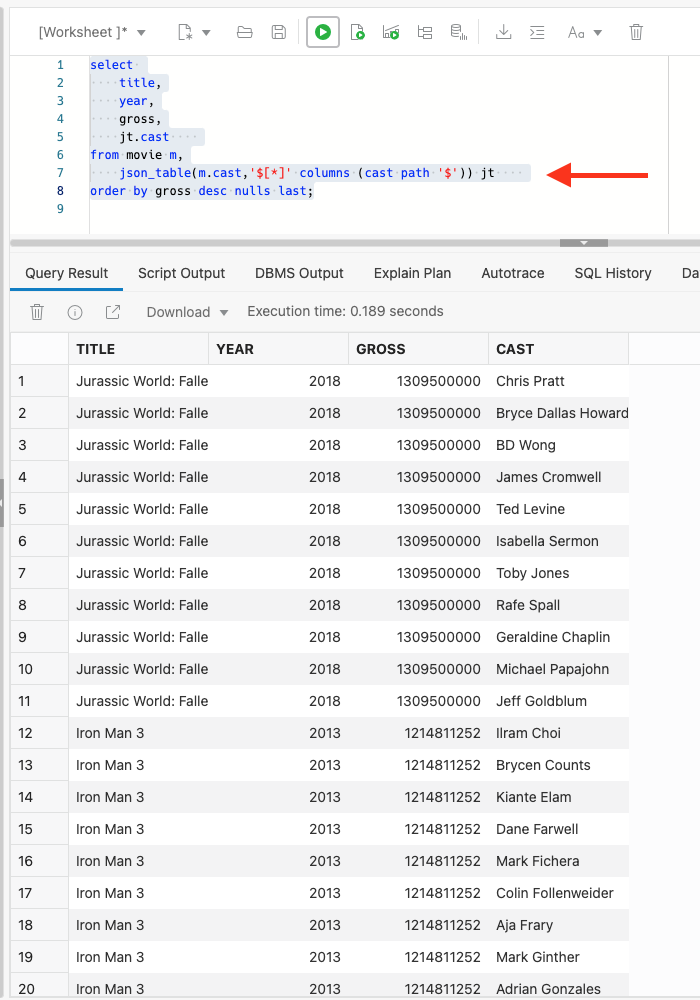
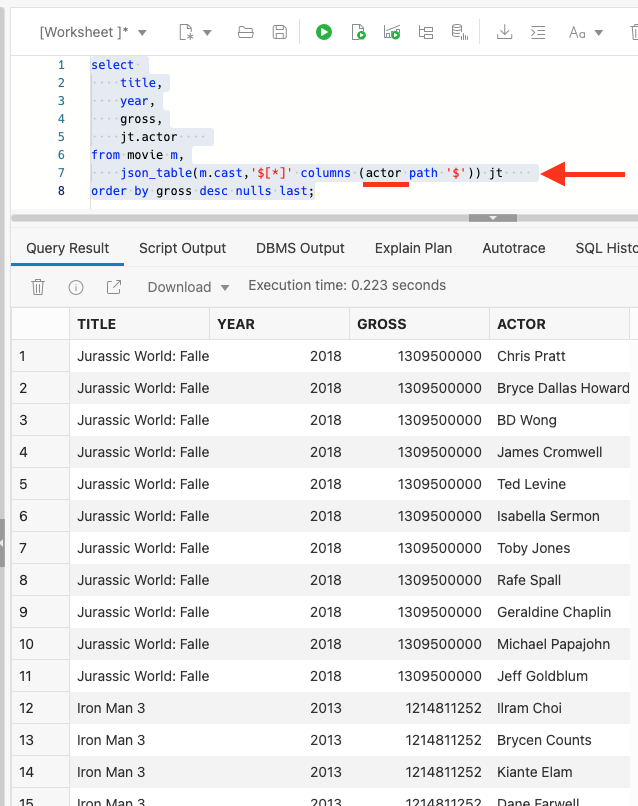
fixed missing block task

diff --git a/shared/adb-load-analyze-workshop/workshops/freetier/index.html b/shared/adb-load-analyze-workshop/workshops/freetier/index.html
@@ -1,0 +1,62 @@
+<!DOCTYPE html>
+<html lang="en">
+
+<head>
+    <meta charset="utf-8">
+    <meta http-equiv="X-UA-Compatible" content="IE=edge">
+    <meta name="viewport" content="width=device-width, initial-scale=1">
+    <meta name="description" content="Oracle LiveLabs gives you access to Oracle's products to run a wide variety of labs and workshops; allowing you to experience our best technology, live!">
+    <title>Oracle LiveLabs</title>
+
+    <script src="https://oracle.github.io/learning-library/common/redwood-hol/js/jquery-1.11.0.min.js"></script>
+    <script src="https://oracle.github.io/learning-library/common/redwood-hol/js/jquery-ui-1.10.4.custom.js"></script>
+    <script src="/building-blocks/js/main.min.js"></script>
+
+    <link rel="stylesheet" href="https://oracle.github.io/learning-library/common/redwood-hol/css/style.min.css" />
+    <link rel="shortcut icon" href="https://oracle.github.io/learning-library/common/redwood-hol/img/favicon.ico" />
+</head>
+
+<body>
+    <header class="hol-Header" role="banner">
+        <div class="hol-Header-wrap">
+            <div class="hol-Header-logo"><span>Oracle LiveLabs</span></div>
+            <a href="https://bit.ly/golivelabs" target="_blank" id="livelabs" title="Oracle LiveLabs"></a>
+            <div class="hol-Header-actions">
+                <button id="openNav" class="hol-Header-button hol-Header-button--menu rightNav" aria-label="Open Menu"
+                    title="Open Menu">
+                    <span class="hol-Header-toggleIcon"></span>
+                </button>
+            </div>
+        </div>
+    </header>
+
+    <div id="container">
+        <div id="leftNav">
+            <div id="toc"></div>
+        </div>
+        <div id="contentBox">
+            <main class="hol-Content" id="module-content"></main>
+        </div>
+    </div>
+
+      <footer class="hol-Footer">
+        <a class="hol-Footer-topLink" href="#top">Return to Top</a>
+        <div id="footer-banner"><div class="footer-row">
+          <div class="footer-content"><ul class="footer-links">
+              <li><a href="https://docs.oracle.com/pls/topic/lookup?ctx=en/legal&id=cpyr" target="_blank" aria-label="Open a new window to Oracle legal notices" data-lbl="copyright">© Oracle</a></li>
+              <li><a href="https://www.oracle.com/corporate/index.html" target="_blank" aria-label="Open a new window to learn more about oracle" data-lbl="about-oracle">About Oracle</a></li>
+              <li><a href="https://www.oracle.com/corporate/contact/" target="_blank" aria-label="Open a new window to contact oracle" data-lbl="contact-us">Contact Us</a></li>
+              <li class="footer-links-break"></li>
+              <li><a href="https://docs.oracle.com/en/browseall.html" target="_blank" aria-label="Open a new window to products a-z" data-lbl="products-a-z">Products A-Z</a></li>
+              <li><a href="https://www.oracle.com/legal/privacy/" target="_blank" aria-label="Open a new window to read more about Oracle terms of use and privacy" data-lbl="terms-of-use-and-privacy">Terms of Use & Privacy</a></li>
+              <li><a href="https://www.oracle.com/legal/privacy/privacy-policy.html#11" target="_blank" aria-label="Open a new window to read more about managing Oracle cookie preferences" data-lbl="cookie-preferences">Cookie Preferences</a></li>
+              <li><a href="https://www.oracle.com/legal/privacy/marketing-cloud-data-cloud-privacy-policy.html#adchoices" target="_blank" aria-label="Open a new window to ad choices" data-lbl="ad-choices">Ad Choices</a></li>
+              <li class="footer-links-break"></li><li class="last"><a href="https://docs.oracle.com/pls/topic/lookup?ctx=en/legal&id=cpyr" target="_blank" aria-label="Open a new window to Oracle legal notices" data-lbl="copyright">© Oracle</a></li>
+            </ul>
+          </div>
+        </div>
+      </div>
+    </footer>
+</body>
+
+</html>

diff --git a/building-blocks/tasks/adb/query-json-arrays.md b/building-blocks/tasks/adb/query-json-arrays.md
@@ -3,7 +3,7 @@ An array of cast members is stored for each movie. Here, you can see that Tom Ha
 
 ![Cast member array](images/adb-json-cast-member-array.png)
 
-In order to find the top grossing actors across movies, the arrays for each movie need to be expanded into rows - one row for each movie -> cast member combination. The ``JSON_TABLE`` function is designed for this purpose. The following will illustrate how to use the function [see the documenation for more details](https://docs.oracle.com/en/database/oracle/oracle-database/19/adjsn/function-JSON_TABLE.html#GUID-0172660F-CE29-4765-BF2C-C405BDE8369A):
+In order to find the top grossing actors across movies, the arrays for each movie need to be expanded into rows - one row for each movie -> cast member combination. The `JSON_TABLE` function is designed for this purpose. The following will illustrate how to use the function ([see the documenation for more details](https://docs.oracle.com/en/database/oracle/oracle-database/19/adjsn/function-JSON_TABLE.html#GUID-0172660F-CE29-4765-BF2C-C405BDE8369A)):
 
 1. Find the top grossing movies. Copy and paste the following SQL into the SQL worksheet and click run:
 
@@ -20,11 +20,11 @@ In order to find the top grossing actors across movies, the arrays for each movi
     fetch first 10 rows only;
     </copy>
     ```
-    Notice the movies and the list of actors for each movie.
+    Notice the top movies and the list of actors for each movie.
 
     ![Top grossing movies](images/adb-query-top-grossing-movies.png)
     
-2. Finding the top movies is easy. It's not quite as simple to find the top grossing actors because they are stored in the cast array. Let's break this down into a couple of steps. First, use `JSON_TABLE` to peform a lateral join; a row will be created for each cast member -> movie combination. Copy and paste the SQL below into the worksheet and click run:
+2. Finding the top movies is easy. It's not quite as simple to find the top grossing actors because actors are stored in the cast array. Let's break this down into a couple of steps. First, use `JSON_TABLE` to peform a lateral join; a row will be created for each cast member -> movie combination. Copy and paste the SQL below into the worksheet and click run:
 
     ```
     <copy>
@@ -32,15 +32,15 @@ In order to find the top grossing actors across movies, the arrays for each movi
         title,
         year,
         gross,
-        jt.cast    
+        jt.actor    
     from movie m,
-        json_table(m.cast,'$[*]' columns (cast path '$')) jt    
+        json_table(m.cast,'$[*]' columns (actor path '$')) jt    
     order by gross desc nulls last; 
     </copy> 
     ```
     The result will look similar to the image below:
 
-    ![Breakout by cast](images/adb-query-json-table-cast.png)
+    ![Breakout by actor](images/adb-query-json-table-cast.png)
 
     Step one has been completed! JSON table has created a row for each actor and movie combination.
 
@@ -49,12 +49,12 @@ In order to find the top grossing actors across movies, the arrays for each movi
     ```
     <copy>
     select 
-        jt.actor as actor,    
+        actor,    
         sum(gross)
     from movie m,
         json_table(m.cast,'$[*]' columns (actor path '$')) jt  
     where actor != 'novalue'    -- filter out bad values
-    group by jt.actor    
+    group by actor    
     order by 2 desc nulls last
     fetch first 10 rows only;
     </copy>
@@ -63,4 +63,3 @@ In order to find the top grossing actors across movies, the arrays for each movi
     Stan Lee and Hugo Weaving are leading the pack!
 
     ![Top box office actors](images/adb-json-top-actors.png)
-

diff --git a/shared/adb-load-analyze-workshop/intro/intro.md b/shared/adb-load-analyze-workshop/intro/intro.md
@@ -1,0 +1,29 @@
+# Introduction
+
+The labs in this workshop walk you through all the steps to get started using the **Oracle Autonomous Database on Shared Infrastructure (ADB-S)**.
+
+<if type="odbw">If you would like to watch us do the workshop, click [here](https://youtu.be/otS5PvJcxMQ).
+</if>
+
+## **Workshop Objectives**
+- Provision a new Autonomous Database instance on Shared Infrastructure
+- Run Queries on the sample data sets
+- Upload files to the Oracle Cloud Infrastructure (OCI) Object Storage, create sample tables, load data into them from files on the OCI Object Storage
+- Query files on the OCI Object Storage directly without loading them to your database
+- Visualize your data using Oracle Analytics Desktop
+
+### **Workshop Prerequisites**
+
+This workshop requires an Oracle Cloud account. You may use your existing account or create one in the following lab.
+
+**Let's begin! If you need to create an account, please click Get Started in the Contents menu on the left. Otherwise, if you have an existing account, click "Lab 1: Provision Autonomous Database".**
+
+## Want to Learn More About Autonomous Database?
+
+- <a href="https://docs.oracle.com/en/cloud/paas/autonomous-data-warehouse-cloud/index.html" target="\_blank">Oracle Autonomous Data Warehouse Documentation</a>
+- <a href="https://docs.oracle.com/en/cloud/paas/autonomous-data-warehouse-cloud/tutorials.html" target="\_blank">Additional Autonomous Data Warehouse Tutorials</a>
+
+## Acknowledgements
+
+- **Authors** - Nilay Panchal, ADB Product Management; Richard Green, Database User Assistance
+- **Last Updated By/Date** - Richard Green, November 2021

diff --git a/building-blocks/tasks/adb/create-load-json-collection.md b/building-blocks/tasks/adb/create-load-json-collection.md
@@ -1,4 +1,14 @@
-### What is JSON
+<!---
+{
+    "name":"Create and load JSON Collection from object storage",
+    "description":
+    "* Loads data using DBMS_CLOUD.COPY_COLLECTION
+     * Introduces JSON_SERIALIZE, JSON_VALUE and JSON_QUERY (minimal)
+     * Creates a view over JSON data
+     * Performs basic JSON queries"
+}
+--->
+### What is JSON?
 JSON provides a language independent, flexible and powerful data model. It was derived from JavaScript, but many modern programming languages include code to generate and parse JSON-format data. For more information see here: [https://en.wikipedia.org/wiki/JSON](https://en.wikipedia.org/wiki/JSON). No wonder that it is such a popular storage format for developers. 
 
 Oracle SQL allows you to analyze JSON data - including complex data types like arrays - in combination with structured tabular data.

diff --git a/building-blocks/blocks/adb/use-partitioned-external-table/use-partitioned-external-table.md b/building-blocks/blocks/adb/use-partitioned-external-table/use-partitioned-external-table.md
@@ -101,7 +101,7 @@ where to_char(day_id, 'YYYY-MM') = '2019-01';
     The query executed in a bit over a minute. Remember this number - we'll compare it next to a query that uses a partitioned external table.
 
 ## Task 4: Create and query a partitioned external table over Parquet data files
-[](include:adb-create-partitioned-external-table.md)
+[](include:adb-use-partitioned-external-table-body.md)
 
 ## Task 5: Create, load and query the an Oracle table from the object storage source
 
